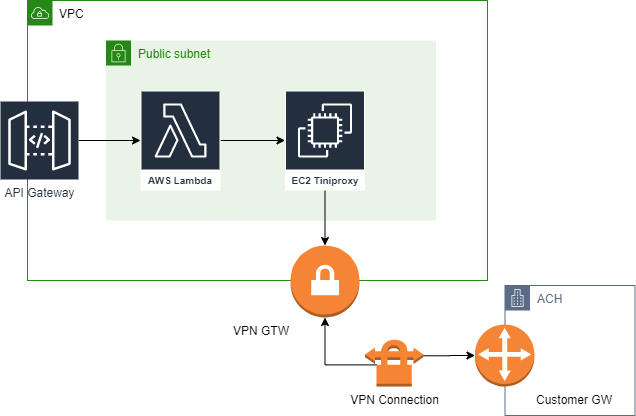
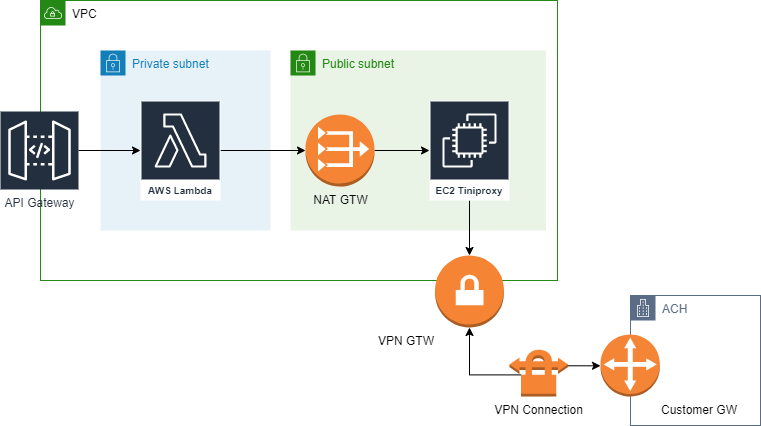
Update documentation with tinyproxy setup and architecture model update

Changed region(s): [[0.0, 0.0, 1.0, 1.0], [0.3585, 0.7812, 0.4481, 0.8125]]

diff --git a/README.md b/README.md
@@ -7,17 +7,40 @@ This project connects to the ACH service to enable online payments using serverl
 ## Prerrequisites
 
 - VPN Site to Site setup
-- EC2 instance
-  - Deployed within the VPC attached to the VPN
-  - Reverse proxy configured with tinyproxy, pointing to the service IP
-  - IP Whitelist configured in /etc/tinyproxy/tinyproxy.conf
+- VPC with public and private networks with the architecture mentioned in <a href="https://docs.aws.amazon.com/vpc/latest/userguide/VPC_Scenario2.html">here</a>
 - Eclipse
   - Springboot tools installed in the marketplace
   - Maven installed
   - Setup Axis2 as instructed <a href="https://www.adictosaltrabajo.com/2008/10/24/web-services-axis-2/">here</a>
 - Serverless Framework, follow the intructions <a href="https://www.serverless.com/framework/docs/getting-started/">here</a>.
 
-## Installation
+## Tinyproxy Setup
+
+To bridge requests between your Lambda service and the ACH services, you must setup an EC2 instance as follows:
+
+1. Deploy an Ubuntu 20.x EC2 instance within the network that has the VPN
+2. SSH into the created instance
+3. Install tinyproxy as follows
+
+```bash
+sudo apt-get install tinyproxy
+```
+
+4. Copy and paste the **tinyproxy > tinyproxy.conf** file into the **/etc/tinyproxy/tinyproxy.conf** file. Be sure to replace the annotated parameters with your own values.
+
+5. Restart the service
+
+```bash
+sudo systemctl restart tinyproxy.service
+```
+
+If you need to access the tinyproxy logs in order to ensure that the service is working as expected, you can execute the following command:
+
+```bash
+sudo cat /var/log/tinyproxy/tinyproxy.log
+```
+
+## Project Setup
 
 First you need to clean the project using these commands:
 
@@ -55,11 +78,11 @@ After this, you need to generate a keystore in JKS format using any tool. We rec
 openssl rsa -aes256 -in your.key -out your.encrypted.key
 ```
 
-After generating the keystore you need to place it in the <strong>src > main > resources > certificate</strong> folder. Then update the configurations lying in the <strong>src > main > resources > policies.xml</strong> and <strong>com.financialomejor.ach.ACHMainController</strong> files, which are marked with the <strong>TODO</strong> comment. You also have to specify the private key password in the <strong>com.financialomejor.ach.PWCBHandler</strong> class.
+After generating the keystore you need to place it in the <strong>src > main > resources > certificate</strong> folder. Then update the configurations lying in the <strong>src > main > resources > policies.xml</strong> and <strong>com.financialomejor.ach.ACHMainController</strong> files, which are marked with the <strong>TODO</strong> annotation. You also have to specify the private key password in the <strong>com.financialomejor.ach.PWCBHandler</strong> class.
 
 ## Running the code
 
-To run the springboot service be sure that the <strong>spring-boot-starter-web</strong> dependency has the exclusions commented as follows:
+To run the springboot service locally be sure that the <strong>spring-boot-starter-web</strong> dependency has the exclusions commented as follows:
 
 ```xml
 <dependency>
@@ -79,6 +102,8 @@ To run the springboot service be sure that the <strong>spring-boot-starter-web</
 
 Then right click the project folder and choose the <strong>"Run As > Spring Boot App"</strong>. If all configurations where done properly the console must show the running project.
 
+<strong> Be sure that the tinyproxy service running on the EC2 instance allows the connections from your IP.</strong>
+
 ## Build
 
 After the project is configured, you need to install the dependencies and build the project. For this you need to execute the following command:
@@ -87,11 +112,11 @@ After the project is configured, you need to install the dependencies and build 
 mvn clean install package -P assembly-zip
 ```
 
-This will generate a ZIP file inside the <strong>target/</strong> folder. This zip is ready to be uploaded to a AWS Lambda Function.
+This will generate a ZIP file inside the <strong>target/</strong> folder. This zip is ready to be deployed using the Serverless Framework.
 
 ## Deploy
 
-To deploy the serverless application to your AWS account you should run the following commands:
+To deploy the serverless application to your AWS account you need to first edit the <strong>serverless.yml</strong> file with your AWS parameters. Then you should run the following commands:
 
 ```bash
 npm i
